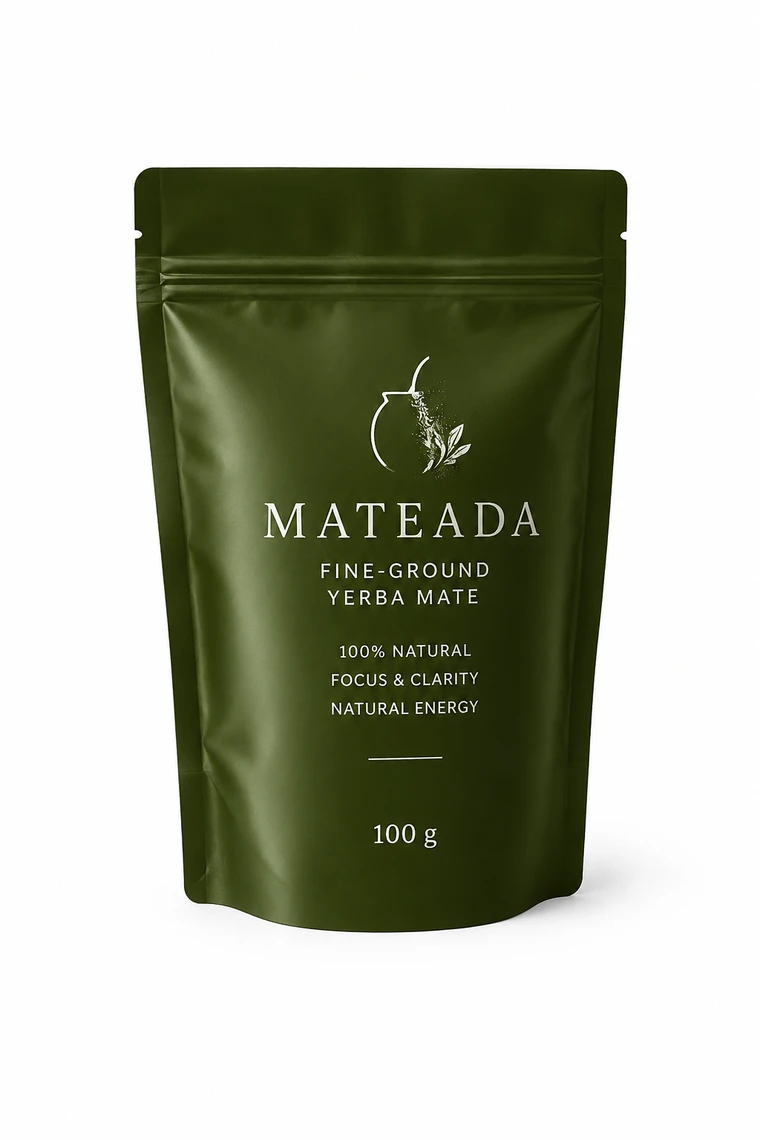
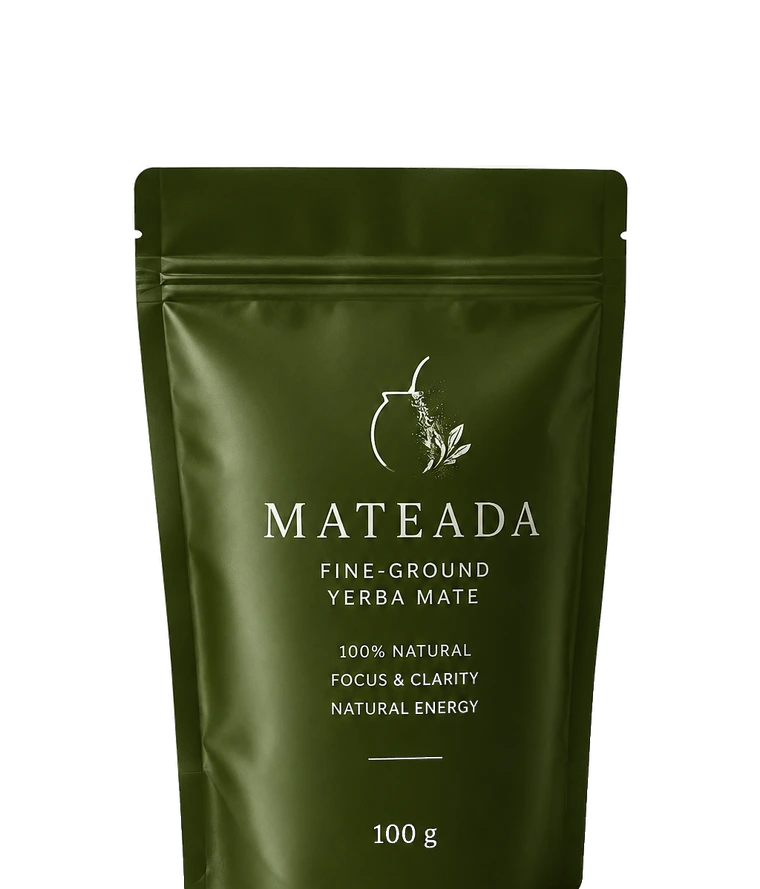
Update product section

Changed region(s): [[0.1513, 0.1215, 0.8474, 1.0], [0.6355, 0.3037, 0.6961, 0.3341]]

diff --git a/src/components/sections/ProductShowcase.tsx b/src/components/sections/ProductShowcase.tsx
@@ -1,70 +1,110 @@
-import { Eyebrow } from "@/components/ui/Eyebrow";
-import { Heading } from "@/components/ui/Heading";
-import { ProductCard } from "@/components/product/ProductCard";
-import productStick from "@/assets/brand/product-stick.webp";
-import productBox from "@/assets/brand/product-box.webp";
+import * as React from "react";
+import { ProductVisual } from "@/components/product/ProductVisual";
+import { WaitlistDialog } from "@/components/product/WaitlistDialog";
+import { Button } from "@/components/ui/Button";
+import { cn } from "@/lib/utils";
+import productCaja from "@/assets/brand/product-caja.webp";
 import productBag from "@/assets/brand/product-bag.webp";
+
+const products = [
+  {
+    title: "Box of 20 Sachets",
+    description: "Fine-ground yerba mate — ready to dissolve, no prep needed.",
+    price: "€17.99",
+    subscribePrice: "€16.19 / month",
+    src: productCaja,
+    imageHeight: "max-h-[340px] sm:max-h-[390px]",
+  },
+  {
+    title: "Yerba Mate Bag",
+    description: "100g in a resealable pouch. Flexible scoops, less packaging.",
+    price: "€15.99",
+    subscribePrice: "€14.39 / month",
+    src: productBag,
+    imageHeight: "max-h-[390px] sm:max-h-[440px]",
+  },
+] as const;
 
 export function ProductShowcase() {
   return (
     <section
       id="shop"
-      className="bg-primary px-4 py-14 text-primary-foreground sm:px-8 sm:py-24 lg:px-12"
+      className="bg-primary px-4 py-6 text-primary-foreground sm:px-8 sm:py-8 lg:px-12"
     >
-      <div className="mx-auto max-w-[1500px]">
-        <div className="flex flex-col gap-4 border-b border-primary-foreground/20 pb-10 md:flex-row md:items-end md:justify-between">
-          <div>
-            <Eyebrow className="text-primary-foreground/70">Shop</Eyebrow>
-            <Heading as="h2" size="lg" className="mt-3 max-w-4xl text-primary-foreground">
-              Three simple ways to drink Mateada.
-            </Heading>
-          </div>
-          <p className="max-w-xl text-sm uppercase tracking-[0.16em] text-primary-foreground/75">
-            Buy once or subscribe and save on every refill.
-          </p>
+      <div className="mx-auto max-w-[1300px]">
+        {/* Heading */}
+        <div className="mb-6 text-center sm:mb-8">
+          <h2 className="font-display text-[clamp(2rem,4.5vw,3.5rem)] uppercase leading-[0.98] tracking-[0.06em] text-primary-foreground">
+            The Mateada collection.
+          </h2>
         </div>
 
-        <div className="mt-10 grid gap-8 lg:grid-cols-3">
-          <ProductCard
-            badge="Single serve"
-            title="Single Sachet"
-            subtitle="Fine-ground yerba mate"
-            description="One pure stick to try the ritual — perfect for water, latte, iced, or hot."
-            price="€1"
-            image={productStick}
-            imageWidth={700}
-            imageHeight={1052}
-            altPrefix="Mateada single sachet, fine-ground yerba mate"
-          />
-          <ProductCard
-            badge="Best value"
-            title="Box of 20 Sachets"
-            subtitle="Your home ritual"
-            description="A full box for slower mornings and steady focus — buy once or subscribe and save 10%."
-            price="€17.99"
-            subscribePrice="€16.19 / month"
-            image={productBox}
-            imageWidth={1000}
-            imageHeight={1089}
-            altPrefix="Mateada box of 20 sachets"
-            highlight
-            subscribable
-          />
-          <ProductCard
-            badge="Loose powder"
-            title="Yerba Mate Bag"
-            subtitle="100 grams, refill format"
-            description="Fine-ground pure yerba mate in a resealable pouch — flexible scoops, less packaging."
-            price="€15.99"
-            subscribePrice="€14.39 / month"
-            image={productBag}
-            imageWidth={760}
-            imageHeight={1140}
-            altPrefix="Mateada 100 gram yerba mate pouch"
-            subscribable
-          />
+        {/* Grid — 1 col mobile, 2 col sm+ */}
+        <div className="grid gap-4 sm:grid-cols-2 sm:gap-6">
+          {products.map((product) => (
+            <CollectionCard key={product.title} product={product} />
+          ))}
         </div>
       </div>
     </section>
+  );
+}
+
+function CollectionCard({ product }: { product: (typeof products)[number] }) {
+  const [mode, setMode] = React.useState<"once" | "subscribe">("once");
+  const [open, setOpen] = React.useState(false);
+
+  return (
+    <article className="flex flex-col overflow-hidden rounded-2xl bg-sage text-center">
+      {/* Product name — above image */}
+      <div className="px-6 pb-1 pt-5 sm:px-8 sm:pt-6">
+        <h3 className="font-display text-[clamp(1.55rem,2.3vw,2rem)] font-semibold uppercase leading-tight tracking-[0.07em] text-foreground">
+          {product.title}
+        </h3>
+      </div>
+
+      {/* Product image */}
+      <div className="flex flex-1 items-end justify-center px-4 pb-2 sm:px-6">
+        <ProductVisual src={product.src} alt={product.title} imageHeight={product.imageHeight} />
+      </div>
+
+      {/* Bottom info */}
+      <div className="border-t border-foreground/15 px-6 pb-5 pt-4 sm:px-8 sm:pb-6 sm:pt-5">
+        <p className="mb-4 text-sm leading-relaxed text-foreground sm:text-[0.9rem]">
+          {product.description}
+        </p>
+
+        {/* CTA — full width */}
+        <Button
+          variant="solid"
+          magnetic={false}
+          onClick={() => setOpen(true)}
+          className="w-full py-3.5 text-sm tracking-[0.2em] sm:py-4"
+        >
+          {mode === "subscribe" ? "Subscribe" : "Buy now"}
+        </Button>
+
+        {/* Price + subscribe toggle */}
+        <div className="mt-4">
+          <p className="font-display text-2xl font-semibold text-foreground sm:text-3xl">
+            {mode === "subscribe" ? product.subscribePrice.split(" ")[0] : product.price}
+          </p>
+          <button
+            type="button"
+            onClick={() => setMode(mode === "once" ? "subscribe" : "once")}
+            className={cn(
+              "mt-1 text-xs uppercase tracking-[0.15em] transition-opacity",
+              mode === "subscribe"
+                ? "text-foreground/80 hover:text-foreground"
+                : "text-foreground/70 hover:text-foreground",
+            )}
+          >
+            {mode === "subscribe" ? "← one-time" : `Subscribe · ${product.subscribePrice}`}
+          </button>
+        </div>
+      </div>
+
+      <WaitlistDialog open={open} onOpenChange={setOpen} productTitle={product.title} />
+    </article>
   );
 }

diff --git a/src/components/product/ProductVisual.tsx b/src/components/product/ProductVisual.tsx
@@ -1,0 +1,98 @@
+import * as React from "react";
+import { gsap } from "@/lib/gsap";
+import { useIsTouchDevice } from "@/hooks/use-is-touch-device";
+import { usePrefersReducedMotion } from "@/hooks/use-prefers-reduced-motion";
+
+type Props = {
+  /** PNG with transparent background. */
+  src: string;
+  alt: string;
+  /**
+   * Future swap point: provide a .glb / .gltf path here to replace the PNG
+   * with a real Three.js model. The `src` PNG acts as the fallback until then.
+   */
+  modelSrc?: string;
+  /** Tailwind height class applied to the <img>. Controls visual balance between products. */
+  imageHeight?: string;
+};
+
+/**
+ * Product presentation with CSS perspective + GSAP tilt.
+ * No color overlays — product renders exactly as photographed.
+ *
+ * Desktop  — mouse-driven X/Y rotation + scale.
+ * Touch    — slow auto-oscillation via RAF.
+ * Reduced  — static.
+ */
+export function ProductVisual({ src, alt, imageHeight = "max-h-[360px] sm:max-h-[420px]" }: Props) {
+  const containerRef = React.useRef<HTMLDivElement | null>(null);
+  const wrapperRef = React.useRef<HTMLDivElement | null>(null);
+
+  const isTouch = useIsTouchDevice();
+  const reducedMotion = usePrefersReducedMotion();
+
+  React.useEffect(() => {
+    if (!isTouch || reducedMotion || !wrapperRef.current) return;
+    let raf: number;
+    const animate = () => {
+      raf = requestAnimationFrame(animate);
+      const t = Date.now() / 1000;
+      gsap.set(wrapperRef.current, {
+        rotateX: Math.sin(t * 0.38) * 3.5,
+        rotateY: Math.cos(t * 0.28) * 5,
+      });
+    };
+    animate();
+    return () => cancelAnimationFrame(raf);
+  }, [isTouch, reducedMotion]);
+
+  const handleMouseMove = React.useCallback((e: React.MouseEvent<HTMLDivElement>) => {
+    if (!containerRef.current) return;
+    const rect = containerRef.current.getBoundingClientRect();
+    const nx = ((e.clientX - rect.left) / rect.width) * 2 - 1;
+    const ny = -(((e.clientY - rect.top) / rect.height) * 2 - 1);
+
+    gsap.to(wrapperRef.current, {
+      rotateX: ny * 10,
+      rotateY: nx * 12,
+      scale: 1.05,
+      duration: 0.45,
+      ease: "power2.out",
+      overwrite: "auto",
+    });
+  }, []);
+
+  const handleMouseLeave = React.useCallback(() => {
+    gsap.to(wrapperRef.current, {
+      rotateX: 0,
+      rotateY: 0,
+      scale: 1,
+      duration: 0.7,
+      ease: "power3.out",
+      overwrite: "auto",
+    });
+  }, []);
+
+  return (
+    <div
+      ref={containerRef}
+      className="relative flex items-end justify-center"
+      style={{ perspective: "1100px" }}
+      onMouseMove={!isTouch && !reducedMotion ? handleMouseMove : undefined}
+      onMouseLeave={!isTouch && !reducedMotion ? handleMouseLeave : undefined}
+    >
+      <div
+        ref={wrapperRef}
+        className="will-change-transform"
+        style={{ transformStyle: "preserve-3d" }}
+      >
+        <img
+          src={src}
+          alt={alt}
+          className={`${imageHeight} w-auto object-contain drop-shadow-[0_24px_48px_rgba(0,0,0,0.18)]`}
+          loading="lazy"
+        />
+      </div>
+    </div>
+  );
+}